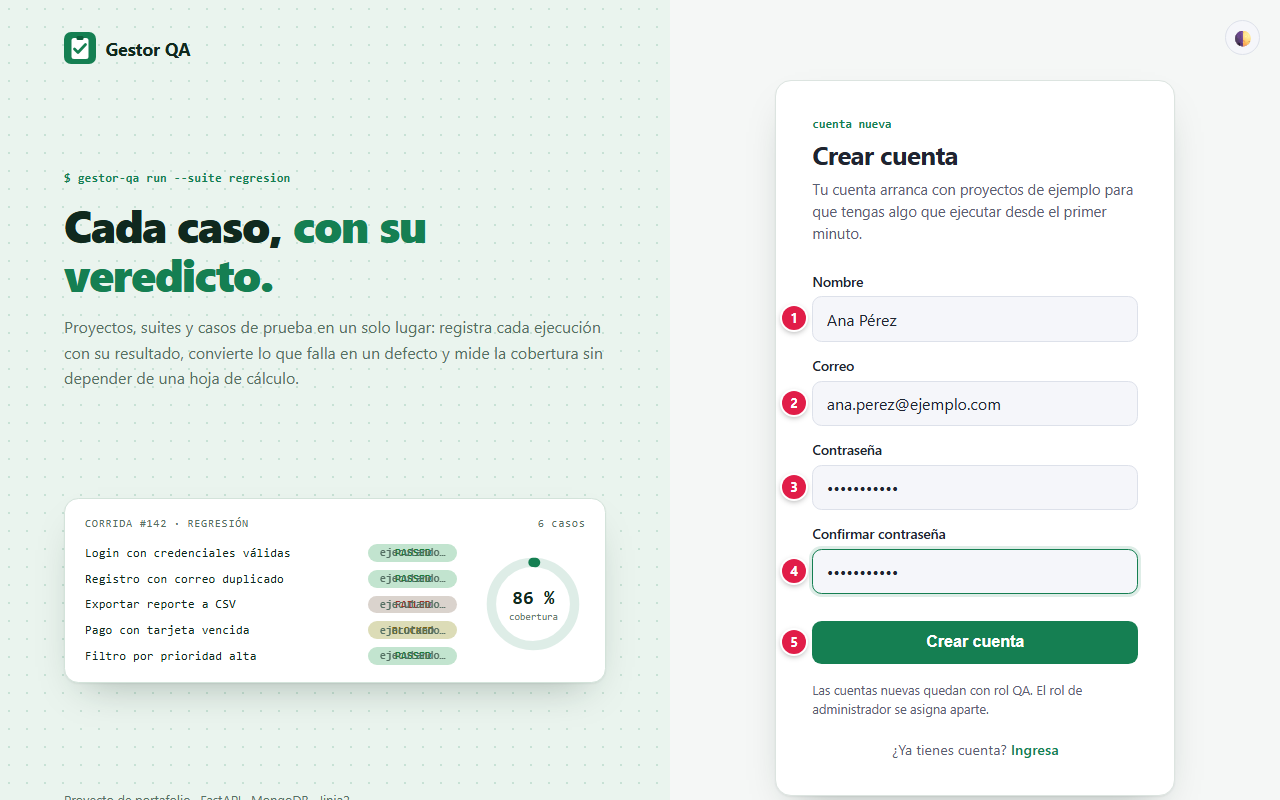
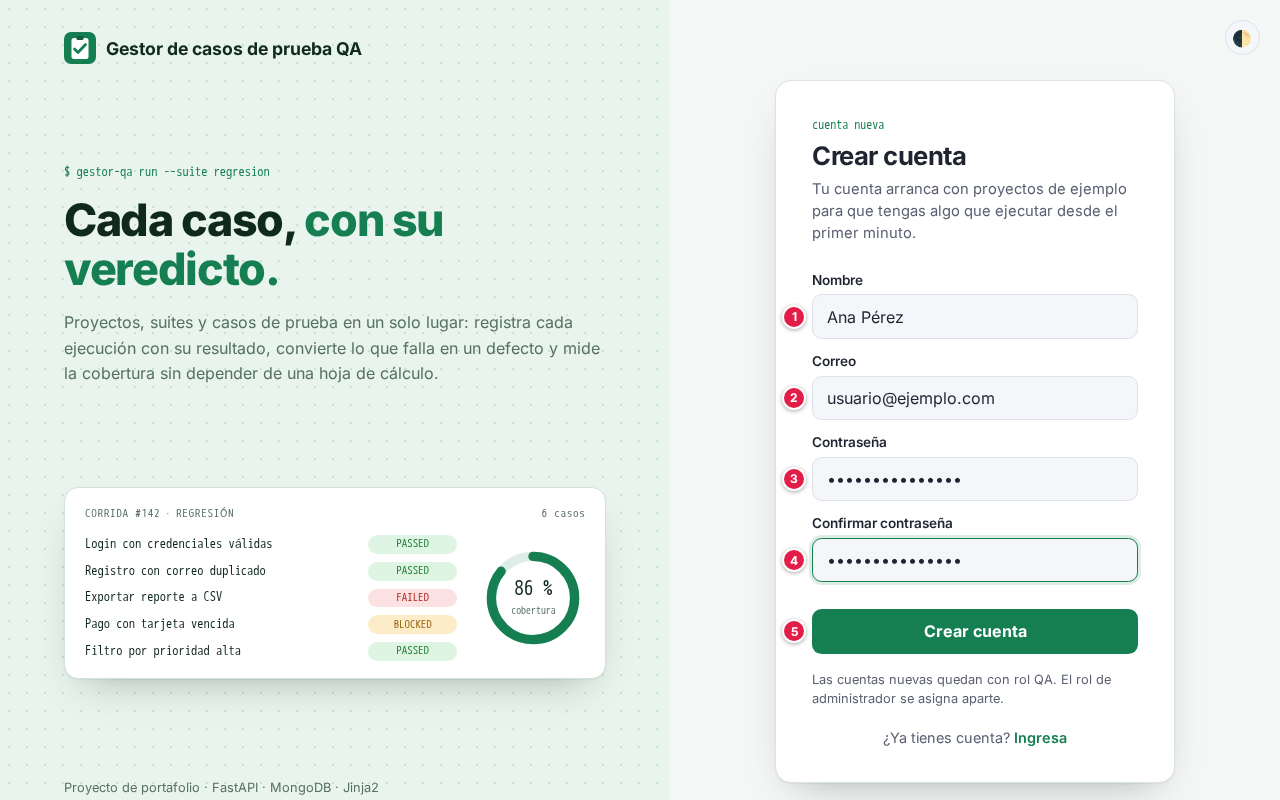
docs: recuperación de cuenta, nombre visible y capturas del manual actualizadas [skip ci]
- README y manual: "Olvidé mi contraseña" (cierra sesiones, MFA sigue activo),
  "Perdí mi autenticador" y pruebas automáticas.
- Capturas 01 a 11 regeneradas con el nombre "Gestor de casos de prueba QA" y
  el menú actual (mismo viewport y marcadores).

diff --git a/README.md b/README.md
@@ -61,6 +61,9 @@ esa carpeta.
 
 - Registro e inicio de sesión con contraseña cifrada y verificación en dos pasos obligatoria
   (app autenticadora o código por correo, a elección; el otro se agrega desde **Seguridad**)
+- Recuperación de la cuenta por correo: **Olvidé mi contraseña** (enlace de un solo uso; al cambiarla
+  se cierran las sesiones abiertas y la verificación en dos pasos sigue activa) y **Perdí mi
+  autenticador** (código al correo de la cuenta y configuración obligatoria de una app nueva)
 - Bloqueo temporal ante intentos fallidos repetidos y registro de eventos de seguridad (ingresos,
   intentos fallidos, bloqueos y cambios de contraseña)
 - Cualquier cuenta creada desde el registro crea y edita su propio trabajo
@@ -97,11 +100,13 @@ Detalle de `backend/`:
 ```
 backend/
 ├── requirements.txt
+├── tests/                   Pruebas de la recuperación de cuenta (pytest)
 └── app/
     ├── main.py              Punto de entrada, monta rutas y estáticos
     ├── config.py            Carga del .env
     ├── database.py          Conexión a Mongo e índices
     ├── seguridad.py         Hasheo de contraseñas y sesiones (JWT)
+    ├── mfa.py               Verificación en dos pasos y "Perdí mi autenticador"
     ├── dependencias.py      Identificación del usuario y control de acceso
     ├── repositorios/        Acceso a datos por colección
     ├── routers/             Páginas web por sección
@@ -151,16 +156,20 @@ guardado solo como huella).
 1. Pulsa **Ya tengo cuenta** (o **Ingresa** desde el registro).
 2. Escribe **Correo** y **Contraseña** y pulsa **Ingresar**.
 3. Escribe el código de 6 dígitos de tu app o de tu correo y pulsa **Verificar**. En **Seguridad**
-   puedes agregar el otro método y elegir cuál se pide por defecto.
+   puedes agregar el otro método y elegir cuál se pide por defecto. Si ya no tienes la app, pulsa
+   **Perdí mi autenticador**: llega un código al correo de la cuenta (vence en 15 minutos) y, al
+   escribirlo, configuras una app autenticadora nueva; la anterior deja de servir solo cuando
+   confirmas la nueva, y la sesión se abre recién en ese momento.
 4. Entras a **Proyectos**, donde solo ves tus propios proyectos.
 
 **Recuperar o cambiar la contraseña**
 
 1. En el inicio de sesión pulsa **¿Olvidaste tu contraseña?** y escribe tu correo. Si la cuenta
    existe, llega un enlace (API de Brevo) que vence en 30 minutos y sirve una sola vez; la respuesta
-   es la misma exista o no la cuenta.
+   es la misma exista o no la cuenta. El enlace solo pide la contraseña nueva y su confirmación. Al
+   guardarla se cierran todas las sesiones abiertas y la verificación en dos pasos sigue activa.
 2. Con la sesión iniciada, **Contraseña** (menú superior) cambia la contraseña: pide la actual y la nueva (mínimo
-   8 caracteres).
+   8 caracteres). Las demás sesiones abiertas se cierran; la actual continúa.
 
 ### 5.3 Crear un proyecto
 
@@ -244,13 +253,22 @@ uvicorn app.main:app --reload
 
 Queda en `http://127.0.0.1:8000`. Crea tu cuenta desde `/registro`.
 
+Pruebas automáticas (no necesitan MongoDB: la colección de usuarios se simula en memoria):
+
+```bash
+cd backend
+pip install pytest httpx
+python -m pytest tests
+```
+
 ### Despliegue
 
 Aplicación sin estado propio en disco (todo vive en MongoDB), así que corre
 igual en cualquier hospedaje con soporte para Python. La instancia pública
 corre en AWS Lambda (Function URL, sin API Gateway) mediante el adaptador
 `mangum`, con MongoDB Atlas como base de datos. Solo hay que definir
-`MONGO_URI` y `JWT_SECRET` como variables de entorno del servicio.
+`MONGO_URI` y `JWT_SECRET` como variables de entorno del servicio. Cada push a `main` corre
+primero las pruebas automáticas y, si pasan, actualiza la función.
 
 ---
 

diff --git a/docs/MANUAL.md b/docs/MANUAL.md
@@ -3,7 +3,7 @@
 Guía para usar la plataforma paso a paso: qué significa cada campo, qué datos se ingresan y qué
 protege la plataforma. Para la parte técnica vuelve al [README](../README.md).
 
-**Demo:** [Gestor QA (AWS Lambda)](https://immxew65sfxj7nubwzlszdimfi0qegzc.lambda-url.us-east-1.on.aws/)
+**Demo:** [Gestor de casos de prueba QA (AWS Lambda)](https://immxew65sfxj7nubwzlszdimfi0qegzc.lambda-url.us-east-1.on.aws/)
 
 ## Contenido
 
@@ -113,9 +113,30 @@ En **Iniciar sesión**, pulsa **¿Olvidaste tu contraseña?** y escribe tu corre
 está activa, te llega un enlace para crear una contraseña nueva (mínimo 8 caracteres). El enlace vence
 en 30 minutos y sirve una sola vez. La pantalla muestra el mismo mensaje exista o no la cuenta.
 
+El enlace abre una pantalla con solo dos campos: **Nueva contraseña** y **Confirma la nueva
+contraseña**. Al guardarla se **cierran todas las sesiones abiertas** (en cualquier equipo) y tu
+verificación en dos pasos **sigue activa**: el siguiente ingreso pide la contraseña nueva y tu código.
+
+### Perdí mi autenticador
+
+Si cambiaste de teléfono o borraste la app autenticadora:
+
+1. Ingresa tu correo y contraseña como siempre.
+2. En la pantalla **Escribe tu código**, pulsa **Perdí mi autenticador** (siempre está visible).
+3. Te llega un código de 6 dígitos **al correo de tu cuenta**, aunque no hayas activado el método por
+   correo. Vence en 15 minutos; si no llega, pulsa **Enviar otro código** (hay un límite de envíos).
+4. Escribe el código y pulsa **Continuar**. Si te equivocas varias veces seguidas, la recuperación se
+   bloquea unos minutos.
+5. Escanea el QR nuevo con tu app y escribe el código que muestra. Al pulsar **Activar** entras a la
+   plataforma.
+
+La app anterior sigue siendo la válida hasta que confirmes la nueva, y acertar el código del correo
+no abre la sesión por sí solo: hay que terminar de configurar la app nueva.
+
 ### Cambiar la contraseña
 
-Con la sesión iniciada, abre **Contraseña** en el menú, escribe la actual y la nueva dos veces.
+Con la sesión iniciada, abre **Contraseña** en el menú, escribe la actual y la nueva dos veces. Las
+demás sesiones abiertas se cierran; la del equipo donde la cambiaste continúa.
 
 ### Verificación en dos pasos (obligatoria)
 
@@ -265,7 +286,11 @@ Comprobado en el código del proyecto (`backend/app/seguridad.py`, `dependencias
 - **Verificación en dos pasos obligatoria** con app autenticadora (TOTP) o código por correo:
   la clave de la app se guarda cifrada, un código no se acepta dos veces, los intentos errados
   bloquean temporalmente y el código del correo vence en pocos minutos.
-- **Sesión en una cookie segura** que vence sola. **Salir** la borra.
+- **Sesión en una cookie segura** que vence sola. **Salir** la borra, y cambiar o restablecer la
+  contraseña cierra las sesiones abiertas con la anterior.
+- **Recuperación sin atajos:** el enlace de "Olvidé mi contraseña" sirve una sola vez y vence; la
+  respuesta no revela si un correo tiene cuenta. "Perdí mi autenticador" exige la contraseña y un
+  código enviado al correo de la cuenta, y solo reemplaza la app cuando la nueva queda confirmada.
 - **Control de acceso por dueño:** cada proyecto, con todo lo que contiene, solo lo puede ver o
   editar quien lo creó o un administrador. Cambiar el identificador en la URL no da acceso a
   proyectos ajenos.
